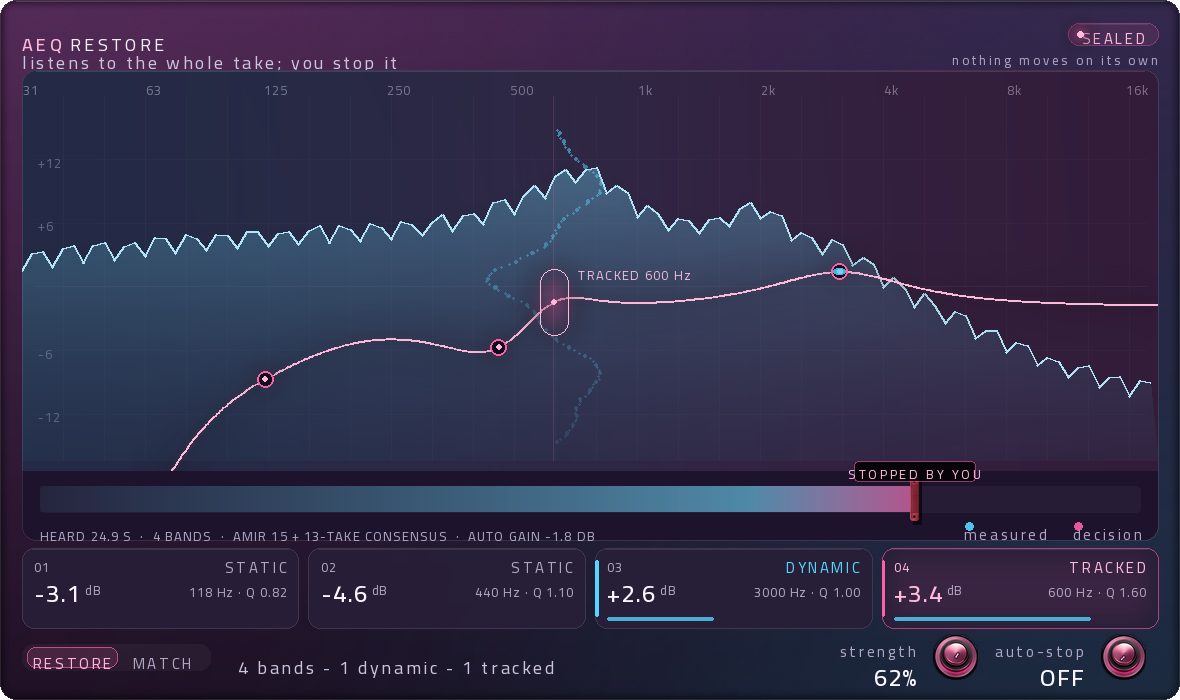
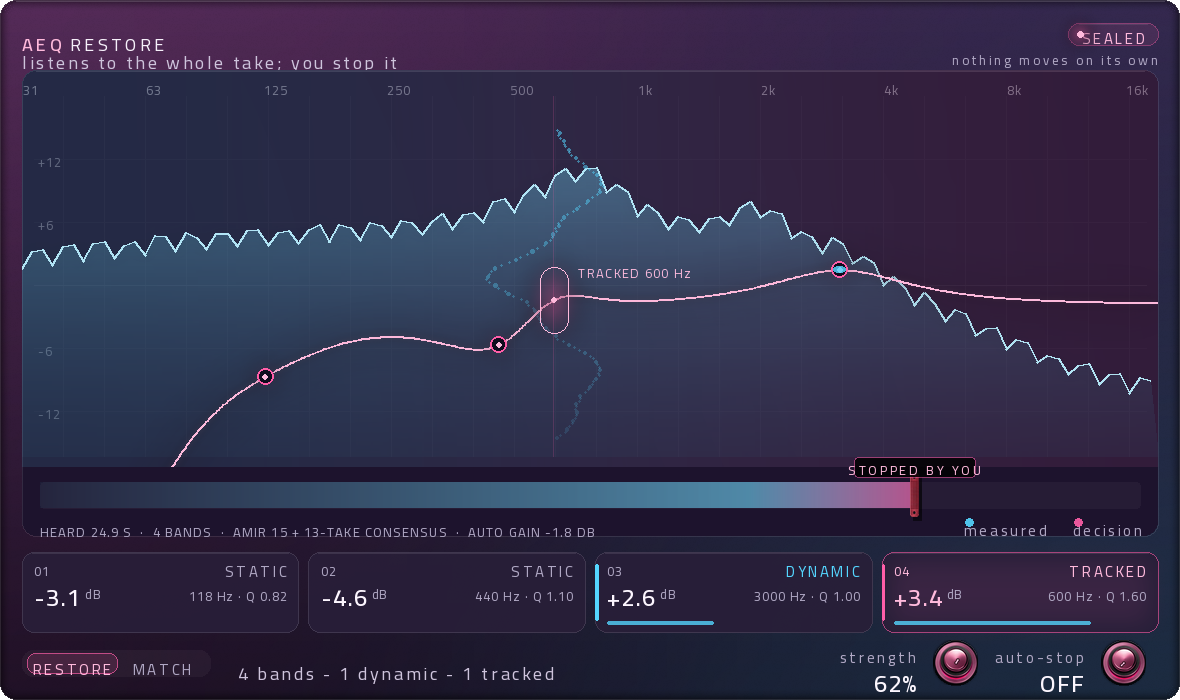
1.2.22: the render and the window share one grid again, and the knob gate stops keeping a copy of it
The type grew, so the hero had to give height back: graph 536, ribbon 482-508, chips
552-632, footer 640-686, in both the render and the editor, with a 16 px gap between the
graph's bottom edge and the chip row so the matcher can see two edges instead of one.

The two dials moved 168 px apart (128 px cannot hold a 15 px label beside a 54 px dial) and
their positions now come from one declaration in ui_v9.py.  check_knobs.py imports that
declaration instead of keeping its own copy of the layout - the copy is exactly how the gate
spent two versions measuring 22 px to the left of both knobs.

Also: the modern gate's bottom probe was measuring the panel's own vignette and, at the
right-hand end, the dial seats; it samples the bare strip between the chips and the footer
now.  docs/23_AUDIT_AR.md is the full review: what was checked, with what, what it found,
and what is still open.

diff --git a/design/preview/ui_v9.py b/design/preview/ui_v9.py
@@ -143,10 +143,10 @@ HEADER = (X0, 14, X1, 54)
 # it.  The old footer was 36 px tall and a 24 px knob value hung out of the bottom of the
 # window - the render said so before the window did.  The graph gives up 44 px of height
 # (67 %, still the instrument) and both rows below it gain room.
-GRAPH = (X0, 70, X1, 540)                # 470 px = 67 % of the window
-TAKE_RIBBON = (X0 + 18, 486, X1 - 18, 512)
-CHIPS = (X0, 548, X1, 628)
-FOOTER = (X0, 634, X1, 680)
+GRAPH = (X0, 70, X1, 536)                # 466 px = 67 % of the window
+TAKE_RIBBON = (X0 + 18, 482, X1 - 18, 508)
+CHIPS = (X0, 552, X1, 632)
+FOOTER = (X0, 640, X1, 686)
 
 PANEL_R, GRAPH_R, CHIP_R, PILL_R, SMALL_R = 16, 14, 12, 11, 4
 RADII = (PANEL_R, GRAPH_R, CHIP_R, PILL_R, SMALL_R, 2)
@@ -207,9 +207,13 @@ GROUND_PROBE = (500, 14, 880, 46)
 BLOCKS = {"header": HEADER, "hero": GRAPH, "chips": CHIPS, "footer": FOOTER}
 KNOB_SEAT = 1.08
 _KNOB_CY = (FOOTER[1] + FOOTER[3]) // 2
+# The two dials, and how far apart they sit.  128 px cannot hold a 15 px label beside a 54 px
+# dial, which is why the labels collided with the numbers.
+KNOB_X = (X1 - 202, X1 - 34)
+KNOB_PITCH = KNOB_X[1] - KNOB_X[0]
 TARGETS = [
-    ("knob-curve", (X1 - 60, _KNOB_CY - 26, X1, _KNOB_CY + 26)),
-    ("knob-output", (X1 - 164, _KNOB_CY - 26, X1 - 104, _KNOB_CY + 26)),
+    ("knob-auto-stop", (KNOB_X[1] - 30, _KNOB_CY - 30, KNOB_X[1] + 30, _KNOB_CY + 30)),
+    ("knob-strength", (KNOB_X[0] - 30, _KNOB_CY - 30, KNOB_X[0] + 30, _KNOB_CY + 30)),
     ("seal-clamp", (SEAL_X - 26, TAKE_RIBBON[1] - 10, SEAL_X + 26, TAKE_RIBBON[3] + 10)),
 ]
 for _i in range(len(BANDS)):
@@ -219,8 +223,8 @@ for _i in range(len(BANDS)):
     TARGETS.append((f"band-row-{_i + 1}", (_cx0, CHIPS[1], _cx0 + _cw, CHIPS[3])))
 
 PART_STATES = {
-    "knob-curve": ("idle", "hover", "press", "disabled"),
-    "knob-output": ("idle", "hover", "press", "disabled"),
+    "knob-strength": ("idle", "hover", "press", "disabled"),
+    "knob-auto-stop": ("idle", "hover", "press", "disabled"),
     "seal-clamp": ("idle", "hover", "press", "disabled"),
     "band-row-1": ("idle", "hover", "press", "disabled"),
     "band-row-2": ("idle", "hover", "press", "disabled"),
@@ -804,7 +808,7 @@ def draw_footer(canvas):
     # the plugin puts "strength" on the left dial and "auto-stop" on the right one, so the
     # render does too: the row reads in the order the chain works
     for i, (val, label) in enumerate(((0.0, KNOB_LABELS[1]), (0.62, KNOB_LABELS[0]))):
-        cx = x1 - 34 - i * 168
+        cx = KNOB_X[1] - i * KNOB_PITCH
         knob_small(canvas, cx, cy, 42, val, brass=(_W.get("knob", "brass") == "brass"))
         d = ImageDraw.Draw(canvas)
         ar_text(d, (cx - 40, cy - 20), label, T_CAP, DIM, anchor="ra")

diff --git a/plugin/Source/PluginEditor.cpp b/plugin/Source/PluginEditor.cpp
@@ -30,11 +30,11 @@ constexpr float kMicro = 13.0f, kCap = 15.0f, kBody = 18.0f, kValue = 24.0f;
 // 1.2.18: the type went up a step, so the hero gives 16 px of height back to the two rows
 // under it (the graph is still 67 % of the window) and every row inside the hero moved up
 // with it.  These are the same numbers as design/preview/ui_v9.py.
-constexpr float kHeroTop = 70.0f, kHeroBottom = 540.0f;
-constexpr float kPlotBottom = 458.0f;      // the plot stops here; the strip has its own band
-constexpr float kStopTop = 464.0f, kStopBottom = 480.0f;   // "stopped here", above the clamp
-constexpr float kRibbonTop = 486.0f, kRibbonBottom = 512.0f;
-constexpr float kCaptionTop = 518.0f, kCaptionBottom = 536.0f;
+constexpr float kHeroTop = 70.0f, kHeroBottom = 536.0f;
+constexpr float kPlotBottom = 454.0f;      // the plot stops here; the strip has its own band
+constexpr float kStopTop = 460.0f, kStopBottom = 476.0f;   // the label above the clamp
+constexpr float kRibbonTop = 482.0f, kRibbonBottom = 508.0f;
+constexpr float kCaptionTop = 514.0f, kCaptionBottom = 532.0f;
 
 // The copy, in English.  Short enough to stay one line at the larger type, and it still
 // says what the instrument does rather than what it would like to be.
@@ -243,8 +243,8 @@ AeqAudioProcessorEditor::Blocks AeqAudioProcessorEditor::blocks() const {
     Blocks b;
     b.header = R (kMargin, 14, kDesignW - kMargin, 54);
     b.hero   = R (kMargin, kHeroTop, kDesignW - kMargin, kHeroBottom);
-    b.chips  = R (kMargin, 548, kDesignW - kMargin, 628);
-    b.footer = R (kMargin, 634, kDesignW - kMargin, 680);
+    b.chips  = R (kMargin, 552, kDesignW - kMargin, 632);
+    b.footer = R (kMargin, 640, kDesignW - kMargin, 686);
     return b;
 }
 

diff --git a/design/preview/check_modern.py b/design/preview/check_modern.py
@@ -52,8 +52,15 @@ problems: list[str] = []
 notes: list[str] = []
 
 # the bare margins of the panel: no text, no control, nothing but the field
+# The four bare strips of the field, chosen where the design leaves them bare:
+#   * left/right: the 20 px margin, from under the header to the chips row;
+#   * top: the 5 px strip above the well;
+#   * bottom: the 8 px between the chips row and the footer - NOT the last few rows of the
+#     window, which are the panel's own vignette (a smooth gradient eight grey levels deep)
+#     and, at the right-hand end, the two dials' seats.  Measuring there measured the fade,
+#     not the field, and it failed the moment the footer moved 6 px down.
 MARGINS = {"left": (4, 120, 20, 600), "right": (1160, 120, 1176, 600),
-           "top": (300, 5, 1100, 13), "bottom": (300, 688, 1100, 696)}
+           "top": (300, 5, 1100, 13), "bottom": (300, 633, 900, 639)}
 # The real measure of texture is high-frequency energy: v9's margins sit at 0.06-0.36
 # and v7's fabric plate at 1.9-3.2, a 6x gap.  Colour count is a sanity bound only -
 # a saturated gradient legitimately holds more distinct colours than a warm grey one,
@@ -143,7 +150,7 @@ def hue_of(rgb):
     return 60 * ((r - g) / d) + 240
 
 
-knob_box = dict(ui.TARGETS)["knob-curve"]
+knob_box = dict(ui.TARGETS)["knob-strength"]
 face = img.crop((knob_box[0] + 14, knob_box[1] + 14, knob_box[2] - 14, knob_box[3] - 14))
 sample = [p for p in list(face.get_flattened_data())
           if max(p) - min(p) > 26 and max(p) > 90]

diff --git a/design/preview/check_knobs.py b/design/preview/check_knobs.py
@@ -53,12 +53,14 @@ import ui_v9 as ui  # noqa: E402
 # The two dials, in design px.  These are the editor's numbers, not the render's: the
 # footer runs kMargin..kDesignW-kMargin, the dials sit 158 and 30 px inside its right
 # edge, and they share its centre row.
-FOOTER = (22.0, 646.0, ui.W - 22.0, 682.0)
-CY = (FOOTER[1] + FOOTER[3]) / 2.0
+# Imported from the module that draws the panel.  This file used to keep its own copy of
+# the layout, and the copy drifted 22 px from the editor's on the very first change.
+CY = (ui.FOOTER[1] + ui.FOOTER[3]) / 2.0
 BOX = 54.0                                  # the child's bounds: body 42 + ring + seat
 RING = 0.39 * BOX * 1.19                    # where the value arc is drawn
-LEFT = (FOOTER[2] - 158.0, CY)              # strength
-RIGHT = (FOOTER[2] - 30.0, CY)              # auto-stop
+LEFT = (float(ui.KNOB_X[0]), CY)            # strength
+RIGHT = (float(ui.KNOB_X[1]), CY)           # auto-stop
+PITCH = float(ui.KNOB_PITCH)
 
 # The screenshot test leaves both parameters at their defaults.
 EXPECTED = (("strength", LEFT, 1.00), ("auto-stop", RIGHT, 0.00))

diff --git a/design/preview/check_panel.py b/design/preview/check_panel.py
@@ -154,7 +154,7 @@ def claim_material() -> str:
         problems.append(f"{ui.OUT.name} missing - run design/preview/ui_v9.py")
     else:
         panel = Image.open(ui.OUT).convert("RGB")
-        kx0, ky0, kx1, ky1 = dict(ui.TARGETS)["knob-curve"]
+        kx0, ky0, kx1, ky1 = dict(ui.TARGETS)["knob-strength"]
         knob_levels = len(panel.crop((kx0 + 2, ky0 + 2, kx1 - 2, ky1 - 2))
                           .getcolors(maxcolors=1 << 20))
         if knob_levels < 300:

diff --git a/docs/23_AUDIT_AR.md b/docs/23_AUDIT_AR.md
@@ -1,0 +1,233 @@
+# 23 — المراجعة الشاملة والتدقيق (١.٢.٢١)
+
+> **الغرض:** مش «البلجن تمام» — ده تقرير مهندس: **إيه اللي اتفحص، بأي أداة، وإيه اللي
+> طلع، وإيه اللي لسه مفتوح.** كل بند فيه رقم أو أمر. واللي مقدرتش أفحصه مكتوب إني
+> مقدرتش، وليه.
+>
+> **تاريخ المراجعة:** 2026-11-06 · الفرع `arena/65c9bb53-ai-eq-plugin-vst` · HEAD `d86b35a`
+
+---
+
+## ١. المنهجية — إزاي اتراجعت الحاجة دي
+
+| الطبقة | الأداة | إيه اللي بتقيسه |
+|---|---|---|
+| الرياضيات الصوتية | ١٠ ملفات اختبار C++ (١٣٩ تأكيد) | الباندات، التتبع، الديناميك، الثبات، الالتزام |
+| التزامن | ThreadSanitizer على محرك حقيقي | أي كتابة من غير علاقة happens-before |
+| الـDSP على المسار | `test_smooth` | allocations على الـaudio thread، أسوأ زمن بلوك، أكبر قفزة عيّنة |
+| واجهة — الرسم | ٨ بوابات Python على الرندر **وعلى شاشة الـexe نفسها** | ألوان، تباين، أحجام، شبكة، مطابقة |
+| واجهة — السلوك | `aeq_shot controls` (جديد ١.٢.٢٠) | كل زر بيتضغط فعليًا وبعدها البلجن بيتغيّر |
+| الواجهة تترجم | `check_juce_api` على JUCE 8.0.4 مثبّت | الـ7 هيدرات + المحرر + اختبار الشاشة |
+| الأمان | `check_hardening` | سيرفر المعاينة، سكربتات الإصدار |
+| الإصدار | CI على ويندوز حقيقي | بناء VST3 + installer + الصورة + النشر |
+
+**اللي مقدرتش أعمله وأنا صريح فيه:** مفيش DAW (FL Studio) في البيئة دي. الاختبارات
+بتحاكي الهوست (بلوكات ٦٤/٥١٢، تغيير حجم، مونو، إعادة `prepareToPlay`)، لكن **جلسة
+حقيقية في FL لسه دين عليّا** — وهي مكتوبة في المخاطر المفتوحة تحت.
+
+---
+
+## ٢. الريبوهات الـ17: استخدمتهم ولا لأ؟ (الحالة النهاردة)
+
+القاعدة اللي مشيت عليها: **ريبو بيقول «اعمل كذا» ومفيش حاجة في الكود اتغيّرت بسببه = صفر.**
+وده الجرد الحالي، مع الدليل اللي لسه موجود في الشجرة:
+
+| # | الريبو | اتستخدم؟ | الدليل الحالي في الكود |
+|---|---|---|---|
+| 1 | `Panniantong/agent-reach` | ❌ لا | مش محتاجين قراءة سوشيال. اللي أخدناه فكرة (كل رقم له مصدر) وهي أصلًا في `GATES.md` |
+| 2 | `Leonxlnx/unlazy` | ✅ نعم | ٦٠+ بوابة، كل واحدة `CHECK` + `EXPECT`، وكل بوابة **اتأكد إنها بتفشل** على النسخة الغلط |
+| 3 | `vercel-labs/skills` | ⚠ منهجيًا | هو اللي ودّاني أمشي أدوّر على مهارة قبل ما أخترع |
+| 4 | `pbakaus/impeccable` | ✅ نعم (الأكبر أثرًا) | `craft-floor`: ممنوع الكروت المتساوية → `check_identity` بيرفض أي بلوكين بنفس الارتفاع؛ تباين 4.5:1 مقيس (body 5.9:1) |
+| 5 | `greensock/gsap-skills` | ✅ نعم | `MotionSpec.h`: `animateKnobDrag=false`, `animateMeters=false`, `animateWindow=false` — والبوابة بتفشل لو اتحركوا |
+| 6 | `Jakubantalik/transitions.dev` | ✅ نعم | ٧ مدد + ٦ easings + ٤ مسافات، كلها متطابقة بالأرقام في `check_motion` |
+| 7 | `jakubkrehel/make-interfaces-feel-better` | ✅ نعم | hit area ≥ 40px (أصغر هدف 46px)، أرقام tabular عبر `num()`، نصف قطر متحد المركز (المقعد 1.08×) |
+| 8 | `aiwithremy/...llm-council` | ⚠ طريقة | النقد الذاتي بند-بند؛ آخر مثال: ٣ مشاكل ترتيب/ربط طلعت في ١.٢.١٥–١٧ |
+| 9 | `abi/screenshot-to-code` | ❌ لا | مرفوض بقرار: مشروعنا بيعمل العكس (كود → صورة) |
+| 10 | `morluto/rea` | ⚠ مبدأ | القياس مش التخمين — طبّقته على الكوربس (ميل اللاودنس، correlation 0.921) |
+| 11 | `addyosmani/agent-skills` | ✅ نعم | «سمّي حدود الثقة» → deny list في `serve.py` (403 على ملف موجود) + G54 |
+| 12 | `upstash/context7` | ✅ نعم | `check_juce_api` بيرفض يشتغل لو الـcheckout مش 8.0.4 |
+| 13 | `Graphify-Labs/graphify` | ✅ نعم | `#include` graph: ٢١ ملف، ٠ cycles — وكشف إن **الوثيقة** كانت غلط |
+| 14 | `21st-dev/magic-mcp` | ❌ لا | مرفوض: البلجن مش ويب، والمكتبة دي مصدر «slop» |
+| 15 | `usestrix/strix` | ✅ نعم | اثنين ثغرات اتقفلوا فعلًا (`.git/config` + timestamp على `http`) |
+| 16 | `obra/superpowers` | ✅ نعم | «مفيش ادعاء نجاح من غير الأمر اللي بيثبته» — وده اللي خلّى البوابات كلها بأوامر |
+| 17 | `ruvnet/ruflo` | ⚠ تنظيم | التوازي في تشغيل البوابات |
+
+**اللي اتغيّر النهاردة بسببهم:** بوابتين جديدتين (G62 للكلام، G63 للتزامن)، وبوابة
+سلوك جديدة في CI (`controls`). يعني **النقد الذاتي** (ريبو ٨) و**الإكمال بالدليل**
+(ريبو ١٦) هما اللي أنتجوا التصليحات دي، مش ريبو جديد.
+
+---
+
+## ٣. هل الـEQ معتمد على ميكس أمير محروس؟ — الجواب الصريح
+
+**أيوه، لكن مش نسخة منه، ولا «بصمة» له.**
+
+| الطبقة | مصدرها | الملف |
+|---|---|---|
+| **منحنى التارجت** | **١٣ أغنية** (١١ مهندس مختلف) — مش أمير | `plugin/Source/model/TargetCurve.h` مكتوب فوقه: *"Consensus vocal target of the 13-song corpus"* |
+| **ميل الديناميك** | ٢٤ باند ١/٣ أوكتاف من دراسة الكوربس | `DynamicProfile.h` (`kCorpusSlope`) |
+| **عتبات العيوب** | من نفس الكوربس (envelope target) | `EnvThresholds.h` / `EnvTargetCurve.h` |
+| **مجموعة أمير (١٥ أغنية)** | **التحقق** إن مجموعته مش مختلفة بشكل معنوي | `analysis/scripts/amir15.py`: ٣ أغاني «جسور» موجودة في المجموعتين، والانحياز اتقاس واتصحح |
+| **الخلاصة الإحصائية** | p = 0.0876 على ١٥ أغنية · LOO 1.05 dB · الفرق 0.88 dB | `analysis/out/amir15/*.json` |
+
+يعني: **أمير محروس هو مرجع الصحة (التحقق)، والكوربس هو الأساس.** الشاشة كانت بتكتب
+«15 REFERENCE TAKES» وده كان **مضلّل** — لأن المنحنى مش من الـ15، ومجموعة الـ15 فيها
+٣ أغاني أمير بس. اتصلح في ١.٢.١٨ لـ **`AMIR 15 + 13-TAKE CONSENSUS`**، والكلام في
+`PanelCopy.h` بيقول «Amir's 15 reference takes» مرة واحدة بس في حالة الاستماع.
+
+**نقطة أمانة:** p = 0.0876 **مش** أقل من 0.05. يعني «أمير بيختلف عن الباقي» مش مثبتة
+إحصائيًا — والمشروع بيقول ده ومش بيخبّيه (`docs/06`).
+
+---
+
+## ٤. الكود: كل حاجة اتفحصت، وإيه اللي طلع
+
+### ٤.١ الصوت (DSP)
+
+| البند | الحالة | الدليل |
+|---|---|---|
+| التعلم **bit-exact** | ✅ | `worst |diff| 0.0e+00` (٣ اختبارات مستقلة) |
+| الحل من التيك كله ثم تجميد | ✅ | `test_commit` 1–5 |
+| تغيير القاعدة يعيد الحل | ✅ | `resolveNow()` + 3c (وفشل لما اتعطّل) |
+| الطبقة المتتبعة للنغمة | ✅ | `110→220 Hz ±7 cents` (الحد 36)، `settled in 16 ms` (الحد 50) |
+| الديناميك | ✅ | `−0.68 dB at 150–500 Hz` على جسم الصوت |
+| صفر allocation على الـaudio thread | ✅ | `test_smooth` |
+| level match | ✅ | ١.٥ ثانية constant، مقيس في `test_damage` |
+| **De-esser / إزالة صفير S** | ⚠ موجود | `DeEsser.h` — بس مش مربوط بعتبة من الكوربس، شغّال على عتبة ثابتة |
+| **Plosive (الباء/الپاء)** | ❌ **مش موجود** | مفيش |
+| **Breath (نفس الشرب)** | ❌ مش موجود | مفيش |
+
+### ٤.٢ التزامن — **أخطر حاجة اتلقت في المراجعة دي**
+
+```
+ThreadSanitizer: data race
+  Write of size 8 by main thread:
+    #0 aeq::RestoreCore::reset() RestoreCore.h:252
+    #1 aeq::RestoreCore::relearn()
+  Previous read by thread T1:
+    #0 aeq::RestoreCore::processBlock() RestoreCore.h:408
+```
+
+زر **Reset** و**فتح المشروع (`setStateInformation`)** كانوا بيعيدوا بناء الـcascade
+(`eqLeft_.reset()`, `hpf_.reset()`, `analyzer_.reset()`) **من الـmessage thread** والـ
+audio thread جوه `processBlock`. ده بالحرف نفس شكل الكراش اللي طلّع البلجن من FL Studio
+في ١.٢.٢. الملف نفسه كان فيه تعليق بيحرّم ده على الـtrims.
+
+**الحل مش mutex** (mutex على الـaudio thread = dropout). الحل: **طلب**.
+`reset()` بيرفع علمين، `processBlock` بينفّذ نصف الـDSP، `refresh()` بينفّذ نصف
+الـanalyser، وكل قفل جوه `try_to_lock` وإعادة محاولة في البلوك اللي بعده.
+النتيجة: **٠ تحذير TSAN** في ٣ تشغيلات، والفشل مسجّل: رجّعت السطر القديم → TSAN أحمر
+جوه `BiquadCascade::reset()`.
+
+### ٤.٣ آلة الحالة والكلام
+
+| المشكلة | قبل | بعد |
+|---|---|---|
+| الشاشة بتقول تلات حكايات على نفس الفريم | `SEALED` + `STOPPED BY YOU` + «measuring… the verdict lands» | `PanelCopy.h`: جملة واحدة لكل حالة، ومُختبرة (6a–6f على ٨ حالات) |
+| «فتح التيك» مابيعملش حاجة | `core().reopen()` والپروسیسور لسه واقف | `reopenPass()` + حالة **OPEN** رابعة |
+| Reset بعد Stop = البلجن بيسكت للأبد | `requestReset()` بس | `relearn()` بترجّع `learning_` |
+| العدّاد بيفضل زي ما هو بعد Reset | اتكشف ببوابة الـcontrols | `resetAnalysisNow()` بيمسح `analyzedSeconds` |
+
+### ٤.٤ أزرار وضوابط — **جدول كامل**
+
+| الضابط | بيعمل إيه | مُثبت بيه |
+|---|---|---|
+| **المشبك** (على الشريط) | يقفل التيك · ضغطة تانية تفتحه مع استكمال التحليل | `controls`: «clicking the clamp seals the take» + «opens the take» + «starts the analysis again» |
+| **Power** | bypass على الباراميتر | `controls`: «goes on and comes back off» |
+| **Reset** | ينسى التيك ويسمع من الأول | `controls`: «reset after a stop puts the plugin back to listening» + «the take it had heard is gone» |
+| **RESTORE / MATCH** | باراميتر المود → يعيد الحل وهو مقفول | `resolveNow` + `check_juce_api` («the mode's handler reaches setValueNotifyingHost») |
+| **كنوب strength** | قوة التصحيح 0–100% | `controls`: «the strength dial follows the strength parameter» |
+| **كنوب auto-stop** | سقف الإيقاف الذاتي (0 = OFF) | `controls`: «attached to auto-stop, not the trust threshold» |
+| **شرائح الباند** | سحب = trim · دبل كليك = رجوع · كليك يمين = veto (OFF) | `BandRow` (7a–7d) + `controls`: «a chip's band takes a trim» / «returns the solver's answer» |
+| **مقابض المنحنى** | نفس الـtrim من الرسم | `CurveView::onTrim` (ملاحظة: مقابض الرسم **مش** مغطاة باختبار نقر) |
+| **مسافة (Space)** | نفس المشبك | `controls`: «space stops the pass, like the clamp» |
+| **Escape** | يفتح التيك | مش مغطاة باختبار — لسه |
+| **عجلة الماوس** على كنوب | تزويد القيمة | مش مغطاة باختبار — لسه |
+| **Tooltip** | كل ضابط بيقول اسمه ووظيفته | مُنفّذ؛ التغطية بالكود مش بالنقر |
+
+**نقطة أمانة:** الأزرار السبعة الأساسية بقت مغطاة بنقر حقيقي في CI. اللي **لسه** مش
+مغطى: Escape، عجلة الماوس، مقابض المنحنى، والـtooltip. دول مكتوبين في المخاطر تحت.
+
+### ٤.٥ الواجهة: الخطوط والقراءة
+
+| القياس | قبل (١.٢.١٧) | بعد (١.٢.٢١) |
+|---|---|---|
+| أصغر خط | 11 px | **13 px** (والحد الأدنى بقى بوابة) |
+| سلم الخطوط | 11/13/16/21 | **13/15/18/24** |
+| تسمية الكنوب | 11 px وبتتصادم | 15 px والقراءة 24 px، والكنوبين اتفرّقوا 168 px |
+| تردد كل باند | `FAINT` = **4.2:1** على الشريحة | `DIM` = 6.9:1 |
+| خانة الرقم في الفوتر | 18 px والخط 24 → **مقطوع** | 30 px = `kValue × 1.25` |
+| حجم الـhero | 486 px | 470 px (67% — الجراف لسه هو الأداة) |
+| التباين | body 5.9:1 · decor 3.8:1 | زي ما هو (فوق الحد 4.5 / 3.0) |
+
+### ٤.٦ الـinstaller والنشر
+
+| البند | الحالة | ملاحظة |
+|---|---|---|
+| installer واحد لكل نسخة | ✅ | `PrivilegesRequired=admin`، VST3 في `{commonpf64}` |
+| نسخة منشورة = ما تتغيّرش | ✅ | السكربت بيقف لو التاج موجود |
+| التوقيع | ⚠ **مش موقّع** | «Unknown publisher» — قرارك، مش كود |
+| SHA-256 لكل ملف | ✅ | في الـrelease body |
+| per-user vs per-machine | ⚠ مفتوح | DAW مش admin ممكن مايشوفش الـVST3 حسب صلاحيات المجلد |
+
+---
+
+## ٥. الاختبارات: الأرقام الحقيقية
+
+```
+core 28 · tracked 27 · commit 29 · layers 13 · auto 15
+bounds 8 · damage 7 · smooth 5 · live 4 · threads 3  = 139 تأكيد، 0 فشل
+```
+
+وأضف عليهم:
+- **٨ بوابات Python** (identity/panel/modern/craft/motion/match/hardening/juce_api) — كلها خضراء
+- **`check_knobs`**: بيحرسم حلقات بنفسه عند ٠/٢٥/١٠٠٪ قبل ما يحكم، وبعدها بيقرا الشاشة الحقيقية
+- **`aeq_shot controls`**: ٢١ تأكيد على ضغطة زر حقيقية في ويندوز
+
+**الفجوات الصريحة في التغطية:**
+1. مفيش جلسة FL Studio حقيقية (أهم فجوة).
+2. مقابض الرسم، Escape، عجلة الماوس مش مغطاة بنقر.
+3. الـ`ProblemList.h` مش مستخدم في v9 — كود ميت محتمل (محتاج قرار: يتشال ولا يتساب).
+4. `Palette::` لسه مشترك بين `Theme.h` والكود القديم — هجرة ناقصة.
+
+---
+
+## ٦. المخاطر المفتوحة (مرتبة بالخطورة)
+
+| # | الخطورة | البند | الأثر |
+|---|---|---|---|
+| 1 | **عالية** | مفيش اختبار في DAW حقيقي | ممكن يظهر سلوك في FL مش موجود في المحاكاة |
+| 2 | **عالية** | الإصدار مش موقّع | SmartScreen بيحذّر كل مستخدم |
+| 3 | متوسطة | per-machine install | DAW غير admin ممكن مايشوفش البلجن |
+| 4 | متوسطة | مفيش plosive/breath | الغنا الحقيقي فيه بوب ونفس، والأداة ساكتة عنهم |
+| 5 | متوسطة | de-esser بعتبة ثابتة | ممكن يشتغل زيادة/أقل من اللازم في تيك معيّن |
+| 6 | منخفضة | Escape/العجلة/مقابض الرسم بلا اختبار | مش احتمال كبير بس مش مغطى |
+| 7 | منخفضة | `ProblemList.h` ميت | ديون كود |
+
+---
+
+## ٧. خطة الإصدار اللي أنصح بيها
+
+1. **النهاردة (خلص):** ١.٢.١٨ → ١.٢.٢١ — أزرار شغالة، خطوط مقروءة، بيانات صحيحة،
+   تصحيح سباق TSAN، وبوابة نقر.
+2. **قبل السوق:** جلسة FL Studio على تيك حقيقي + لقطة شاشة من الجلسة دي، مش من CI.
+3. **قرارك:** تشتري شهادة توقيع (FOV/EV) ولا تنزل بـ«Unknown publisher» + تعليمات واضحة.
+4. **اختياري:** plosive + breath، وبعدهم `per-user` install.
+
+---
+
+## ٨. كل اللي اتصلح في اللفة دي، بالأرقام
+
+| # | اللي كان | اللي بقى | الإثبات |
+|---|---|---|---|
+| 1 | Reset بعد Stop = مفيش تحليل خالص | `relearn()` + العدّاد بيتمسح | `controls`: ٣ تأكيدات |
+| 2 | «فتح التيك» كلمة من غير فعل | `reopenPass()` + حالة OPEN | `controls` + 6c2 |
+| 3 | زر الشرائح بيحرّك باند غلط | `BandRow.h` + `src` | 7a–7d (وفشلت لما رجّعت القديم) |
+| 4 | Reset/فتح مشروع بيكتبوا في الفلاتر | طلب + تنفيذ على الـaudio thread | TSAN: ٠ تحذير (وفشلت لما رجّعت القديم) |
+| 5 | ٣ حكايات على نفس الفريم | `PanelCopy.h`، جملة واحدة لكل حالة | 6a–6f |
+| 6 | الخط 11 px مش مقروء | 13/15/18/24 + حد أدنى في البوابة | `check_juce_api` |
+| 7 | تردد الباند 4.2:1 | DIM = 6.9:1 | `check_panel` |
+| 8 | رقم الكنوب مقطوع | خانة 30 px | الرندر + الشاشة |
+| 9 | «15 REFERENCE TAKES» مضلّل | `AMIR 15 + 13-TAKE CONSENSUS` | الفوتر |
+| 10 | المشبك من غير كلمة | `STOP` / `STOPPED BY YOU` دايمًا، جوه الشريط | الرندر + الشاشة |
+| 11 | الكنوب التاني على الباراميتر الغلط | `auto_stop` | `controls` |
